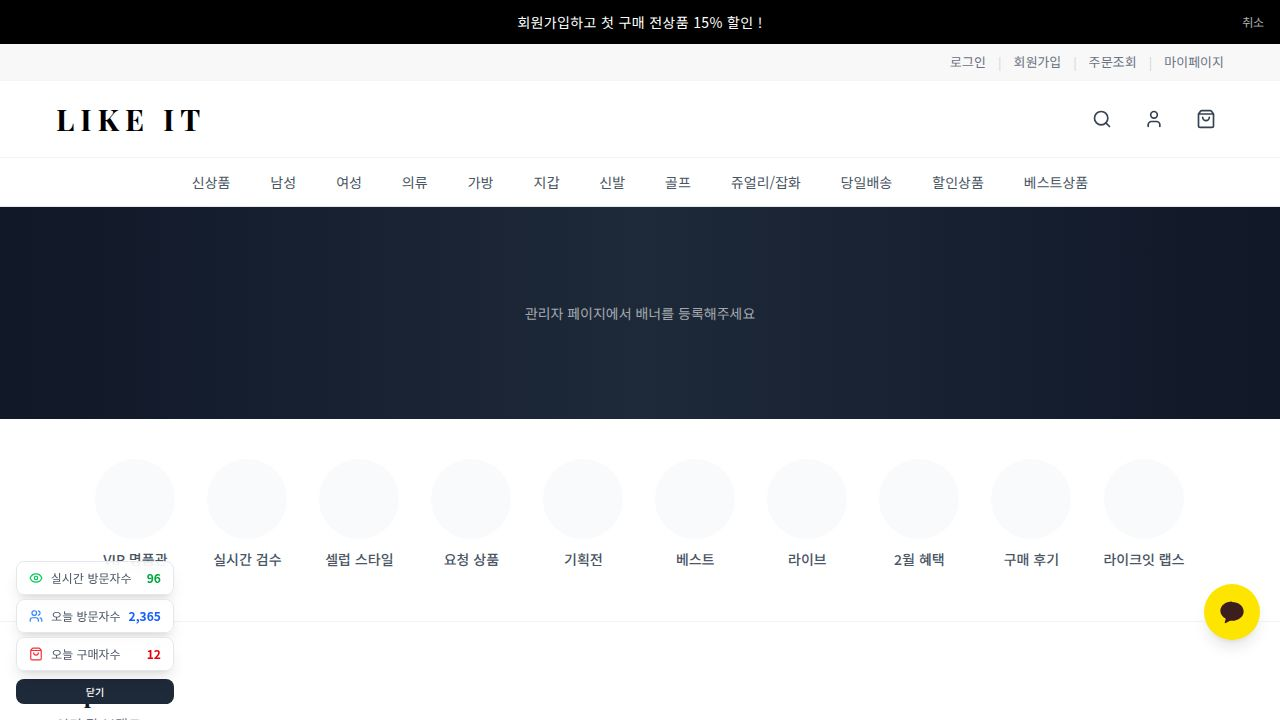
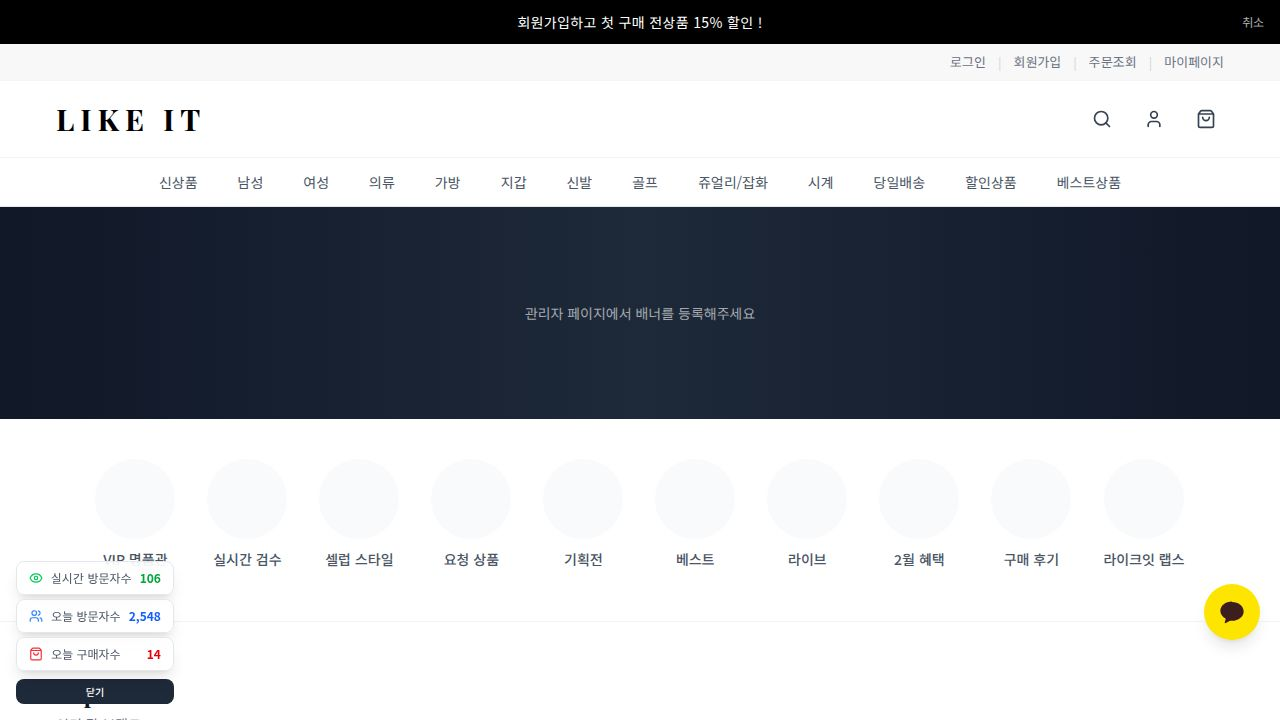
Add watches category to navigation and product listings
Update Header.tsx and ProductList.tsx to include 'watches' as a navigable category and product listing option.

Replit-Commit-Author: Agent
Replit-Commit-Session-Id: 9dfc5677-b4f8-4c54-8307-353c42cb3917
Replit-Commit-Checkpoint-Type: full_checkpoint
Replit-Commit-Event-Id: d7bfd8bb-be37-433e-9276-57b1e9e0d7e6
Replit-Commit-Screenshot-Url: https://storage.googleapis.com/screenshot-production-us-central1/ea20bce5-30c4-4948-8c18-491f182af1e8/9dfc5677-b4f8-4c54-8307-353c42cb3917/eWEYiEp
Replit-Helium-Checkpoint-Created: true

Changed region(s): [[0.125, 0.2444, 0.875, 0.275], [0.0938, 0.7944, 0.125, 0.825]]

diff --git a/client/src/pages/ProductList.tsx b/client/src/pages/ProductList.tsx
@@ -38,6 +38,7 @@ const CATEGORIES = [
   { id: "shoes", name: "신발", slug: "shoes" },
   { id: "golf", name: "골프", slug: "golf" },
   { id: "jewelry", name: "쥬얼리/잡화", slug: "jewelry" },
+  { id: "watches", name: "시계", slug: "watches" },
   { id: "sameday", name: "당일배송", slug: "sameday" },
   { id: "sale", name: "할인상품", slug: "sale" },
   { id: "best", name: "베스트상품", slug: "best" },

diff --git a/client/src/components/layout/Header.tsx b/client/src/components/layout/Header.tsx
@@ -16,6 +16,7 @@ const categoryNavItems = [
   { name: '신발', path: '/products/shoes' },
   { name: '골프', path: '/products/golf' },
   { name: '쥬얼리/잡화', path: '/products/jewelry' },
+  { name: '시계', path: '/products/watches' },
   { name: '당일배송', path: '/products/sameday' },
   { name: '할인상품', path: '/products/sale' },
   { name: '베스트상품', path: '/products/best' },
